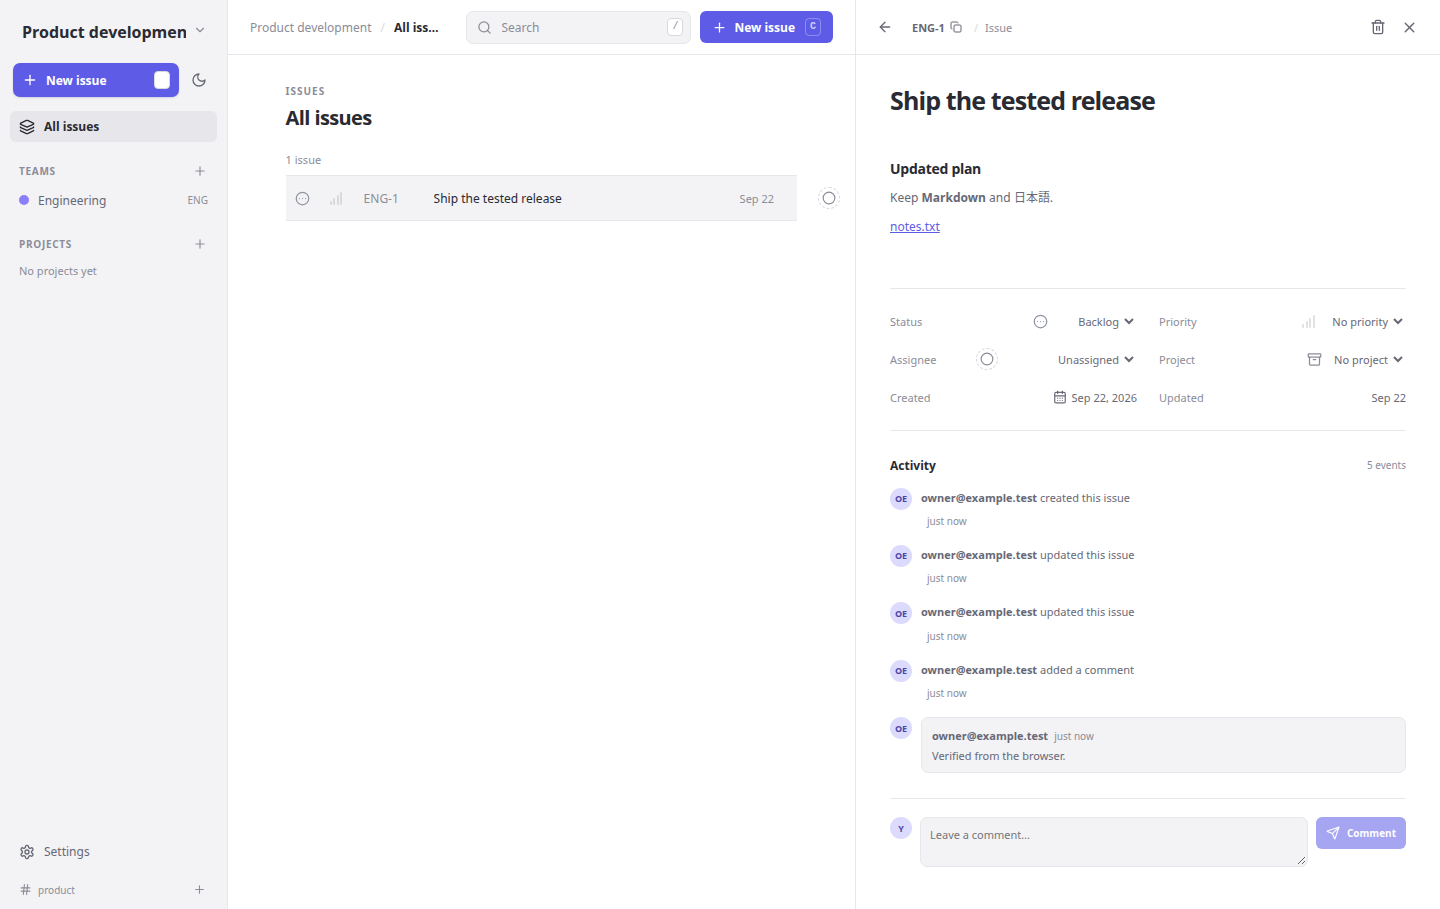
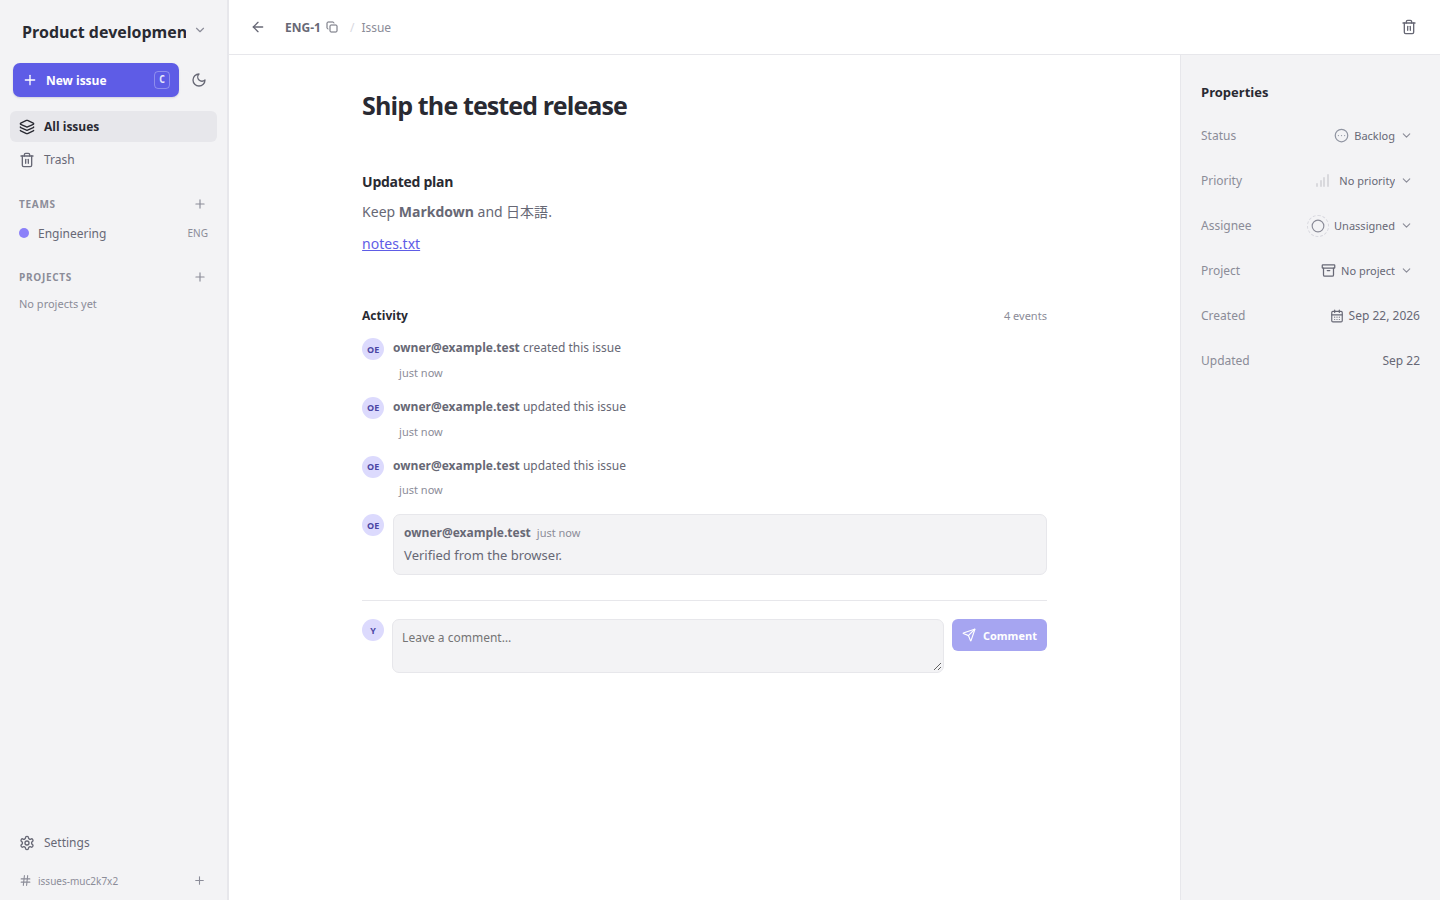
docs: record UI audit and authenticated production verification

diff --git a/docs/development-status.md b/docs/development-status.md
@@ -2,29 +2,40 @@
 
 2026-09-22。ローカルでWeb・CLI・インポートの受入動作を確認済みです。ローカル結果をCloudflareの性能やLinearとの速度同等性とは扱いません。
 
-| 項目                                                | 状態                 | 実行と結果                                                                                         |
-| --------------------------------------------------- | -------------------- | -------------------------------------------------------------------------------------------------- |
-| WorkerのチケットCRUD、Markdown保持、削除・復元      | VERIFIED             | `node --test tests/api.test.mjs`                                                                   |
-| 権限、招待、private team、最後のowner保護           | VERIFIED             | 同APIテストの対象シナリオが成功                                                                    |
-| 非公開R2のアップロード・読み取り・権限              | VERIFIED             | 同APIテストで本文bytesとアクセス拒否を確認                                                         |
-| 一覧のページング                                    | VERIFIED             | 405件を3ページで取得、重複・欠落0件                                                                |
-| 100件同時登録・更新・再送                           | VERIFIED（ローカル） | `node --test tests/load.test.mjs`。100 create/100 update/100 replay。1件への100更新は1成功・99競合 |
-| Access JWTの署名・有効期限・audience検査            | VERIFIED（ローカル） | `node --test tests/auth.test.mjs`。実署名とJWKS HTTPサーバーを使用                                 |
-| CLIのチケットCRUD、プロジェクト更新、競合終了コード | VERIFIED             | `node --test tests/cli.test.mjs`。ビルド済みCLIをsubprocessとして実行                              |
-| Webの登録・本文編集・コメント・添付・reload・削除   | VERIFIED             | `pnpm test:e2e`。Chromiumから実APIを使用                                                           |
-| キーボードで作成画面を開く                          | VERIFIED             | APIを500ms遅延させても作成画面が開くことを確認                                                     |
-| 本番bundleからテスト認証を除外                      | VERIFIED             | Wrangler dry-runと `scripts/check-production-bundle.mjs`                                           |
-| pre-commitが型エラーを拒否                          | VERIFIED             | `pnpm test:hooks`。使い捨てgit repoで正常commitと拒否を確認                                        |
-| Webの管理操作、2画面同期、実際の競合時のdraft保持   | VERIFIED             | Chromium E2E 4件成功。通知反映2秒以内、実APIの409で他者の本文を保持                                |
-| Linear実データの移行・添付照合                      | VERIFIED（ローカル） | 2,428レコード、289チケット、添付6ファイル13,589,221 bytes。正規化内容・SHA256・サイズを照合し差分0 |
-| Cloudflareでの本番利用・100件負荷                   | NOT VERIFIED         | デプロイ済み。未認証Web/APIの302を確認。メールコードによる本人ログイン待ち                         |
-| Linearとの同条件の操作レイテンシ比較                | NOT VERIFIED         | 本番チケットへの書き込み比較は未実施                                                               |
-| 独自のbackup/restoreコマンド                        | 対象外               | 今回は未実装。元のLinearエクスポートは非公開のローカル領域に保存                                   |
+| 項目                                                | 状態                 | 実行と結果                                                                                                                                              |
+| --------------------------------------------------- | -------------------- | ------------------------------------------------------------------------------------------------------------------------------------------------------- |
+| WorkerのチケットCRUD、Markdown保持、削除・復元      | VERIFIED             | `node --test tests/api.test.mjs`                                                                                                                        |
+| 権限、招待、private team、最後のowner保護           | VERIFIED             | 同APIテストの対象シナリオが成功                                                                                                                         |
+| 非公開R2のアップロード・読み取り・権限              | VERIFIED             | 同APIテストで本文bytesとアクセス拒否を確認                                                                                                              |
+| 一覧のページング                                    | VERIFIED             | 405件を3ページで取得、重複・欠落0件                                                                                                                     |
+| 100件同時登録・更新・再送                           | VERIFIED（ローカル） | `node --test tests/load.test.mjs`。100 create/100 update/100 replay。1件への100更新は1成功・99競合                                                      |
+| Access JWTの署名・有効期限・audience検査            | VERIFIED（ローカル） | `node --test tests/auth.test.mjs`。実署名とJWKS HTTPサーバーを使用                                                                                      |
+| CLIのチケットCRUD、プロジェクト更新、競合終了コード | VERIFIED             | `node --test tests/cli.test.mjs`。ビルド済みCLIをsubprocessとして実行                                                                                   |
+| Webの登録・本文編集・コメント・添付・reload・削除   | VERIFIED             | `pnpm test:e2e`。Chromiumから実APIを使用                                                                                                                |
+| キーボードで作成画面を開く                          | VERIFIED             | APIを500ms遅延させても作成画面が開くことを確認                                                                                                          |
+| 本番bundleからテスト認証を除外                      | VERIFIED             | Wrangler dry-runと `scripts/check-production-bundle.mjs`                                                                                                |
+| pre-commitが型エラーを拒否                          | VERIFIED             | `pnpm test:hooks`。使い捨てgit repoで正常commitと拒否を確認                                                                                             |
+| Webの管理操作、2画面同期、実際の競合時のdraft保持   | VERIFIED             | Chromium E2E 29件成功。通知反映2秒以内、実APIの409で他者の本文を保持                                                                                    |
+| Linear実データの移行・添付照合                      | VERIFIED（ローカル） | 2,428レコード、289チケット、添付6ファイル13,589,221 bytes。正規化内容・SHA256・サイズを照合し差分0                                                      |
+| Cloudflare本番での基本操作                          | VERIFIED             | 認証済みChromiumで作成、タイトル更新、コメント、削除キャンセル、削除、再読込、ごみ箱検索、復元、再読込の9項目に成功。検証用チケットは最後にごみ箱へ移動 |
+| Cloudflare本番での100件負荷                         | NOT VERIFIED         | 100件同時処理の検証はローカルWorkerのみ                                                                                                                 |
+| Linearとの同条件の操作レイテンシ比較                | NOT VERIFIED         | 本番チケットへの書き込み比較は未実施                                                                                                                    |
+| 独自のbackup/restoreコマンド                        | 対象外               | 今回は未実装。元のLinearエクスポートは非公開のローカル領域に保存                                                                                        |
 
 見つかった問題は、期待する利用結果をチェックするテストで確認してから修正しています。タイトルだけのPATCHで既存本文を消す問題は、作成用のdefault値を更新用の入力から分離して修正しました。一覧が201件で打ち切られる問題は、権限フィルターとページ境界をSQLで適用する方式に変更しました。
 
-最終チェック: `pnpm check` 成功（format、lint、全アプリのtypecheck、Web/CLI/Workerビルド、16実動作テスト）。`pnpm test:e2e` は4件成功。`pnpm test:hooks` は正常commitの受理と型エラーの拒否に成功。
+最終チェック: `pnpm check` 成功（format、lint、全アプリのtypecheck、Web/CLI/Workerビルド、17実動作テスト）。`pnpm test:e2e` は29件成功。`pnpm test:hooks` は正常commitの受理と型エラーの拒否に成功。
 
-100 create・100 update・100 replay・100競合要求（1成功99競合）と保存後の読取検証はローカルで1,259msでした。この全体時間を個別要求のp95やCloudflareでの所要時間としては扱いません。
+100 create・100 update・100 replay・100競合要求（1成功99競合）と保存後の読取検証はローカルで1,267msでした。この全体時間を個別要求のp95やCloudflareでの所要時間としては扱いません。
 
-本番バージョンは `97666caf-0c22-4a81-9c0b-cbf99717d7d5`。実データの移行照合はローカルWorkerで実施し、本番にはまだ投入していません。確認の集計は `reports/real-import-summary.json`、合成データの画面は `reports/screenshots/` にあります。
+本番バージョンは `3f4d0d26-f82f-4e66-b966-0dafbc0d7195`。実データの移行照合はローカルWorkerで実施し、本番にはまだ投入していません。確認の集計は `reports/real-import-summary.json`、合成データの画面は `reports/screenshots/` にあります。
+
+## 2026-09-22 UI修正
+
+`linc manual test` の指摘をもとに、削除確認をアプリ内ダイアログへ変更し、ごみ箱からの復元導線を追加しました。詳細画面は一覧を置き換える表示にし、長い識別子とタイトルの重なり、チーム未作成時の案内、必須項目の表示、コメント送信中の表示を修正しました。実装コミットは `126b263` と `e3d6ef5` です。
+
+本家Linearの一覧・詳細・作成・選択メニュー・各管理画面を読み取りで確認しました。比較結果と意図した差異は [ui-comparison.md](ui-comparison.md) に記録しています。作成ダイアログのCSS競合とメニューの見切れは、デスクトップと狭い画面の表示をE2Eで確認しています。
+
+29件のブラウザテストは、基本CRUDに加え、削除のキャンセル・失敗・待機中・復元、通信失敗時の入力保持、コメントの即時表示と再試行、URL直アクセス・戻る・進む、IME変換、管理画面、2画面同期、レスポンシブ表示を対象にします。通常の成功操作は実WorkerとSQLite Durable Objectを使い、遅延・失敗だけを通信側で注入しています。
+
+本番の9項目は `reports/production-ui-verification.json` に記録しています。ユーザーの既存チケットは変更していません。Linearと同条件のp95比較と本番100件負荷は未測定です。

diff --git a/docs/ui-comparison.md b/docs/ui-comparison.md
@@ -25,6 +25,6 @@ The previous deletion test automatically accepted the browser's native confirmat
 
 The comparison concerns the implemented features and their interaction patterns. Linc omits Linear's templates, cycles, initiatives, agents, custom views, milestones, and project updates. Cloudflare Access owns sign-in; Linc's initial workspace bootstrap has no equivalent authenticated Linear screen.
 
-Reference create dialogs and pickers were opened and dismissed without submitting. Destructive reference actions were not tested. Linc's delete/restore behavior is verified against its real Worker using disposable local records.
+Reference create dialogs and pickers were opened and dismissed without submitting. Destructive reference actions were not tested. Linc's delete/restore behavior is verified against its real Worker using disposable local records and one disposable production issue. Production verification includes cancellation, deletion, reload, finding the issue in Trash, restoration, and another reload; the verification issue was returned to Trash afterward.
 
 The E2E tests use a real Worker and SQLite Durable Object. Request interception only introduces delay or a failed response for recovery checks. It does not replace successful CRUD with a mock server. The local timings demonstrate that cached opening and optimistic comments do not wait for the network. They do not prove identical p95 latency to Linear or pixel-identical rendering.
